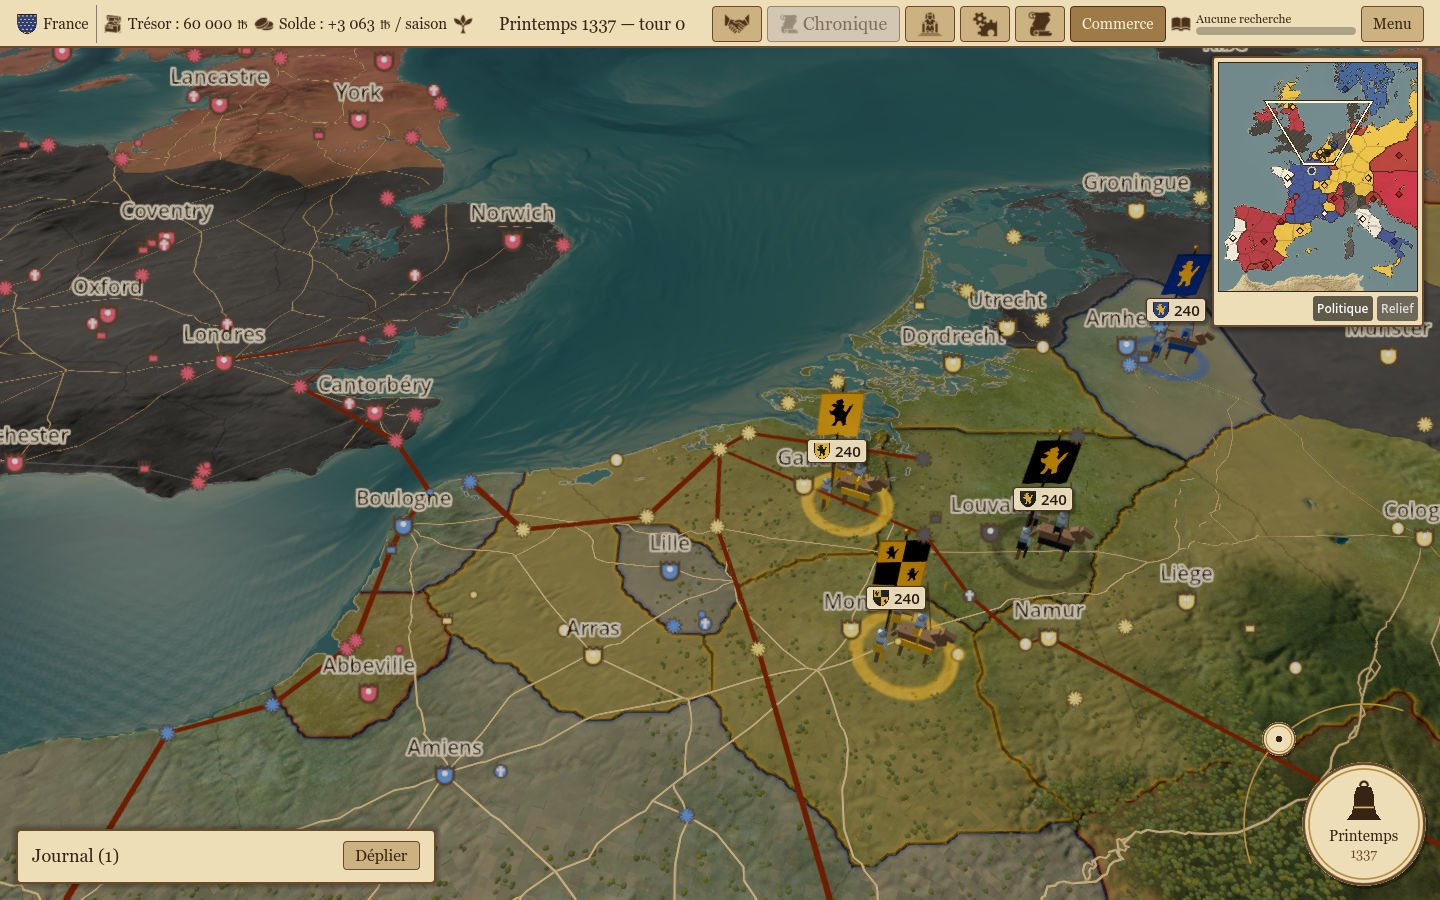
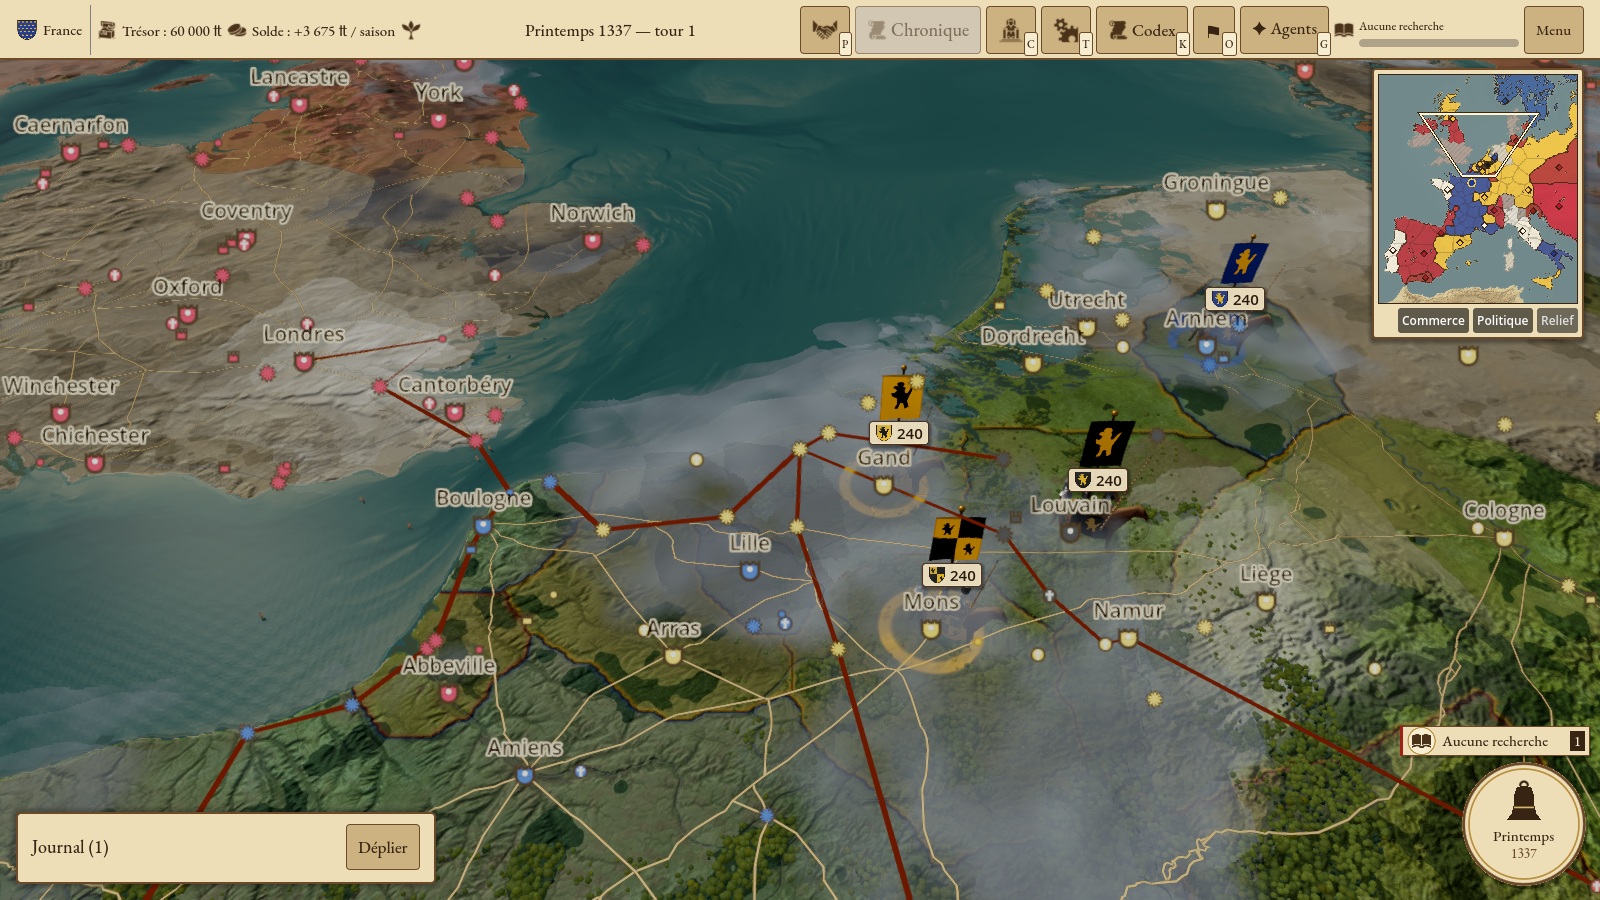
wip(c5r): probe figures, captures (trade layer, diplomacy trade line, edicts)

diff --git a/docs/wip/c5-commerce.md b/docs/wip/c5-commerce.md
@@ -49,7 +49,48 @@ dans `GameData::trade` (`core/crates/data-model/src/entities/trade.rs`,
   `FactionState::trade_agreements`, `plan_trade_agreements` et `trade_income_factor` supprimés.
   Test `c5_trade::trade_article_counts_common_routes_in_the_evaluation` + accord signé par
   `apply_treaty` dans les tests C5. Smoke : l'accord passe par `propose_treaty`.
-- `cargo test` : 580 verts.
+- `cargo test` : 580 verts ; clippy propre ; pytest 392 ; import OK ; smoke 26 « smoke OK »,
+  code 0.
+- Barre du haut : le bouton « Commerce » ne tenait plus en 1280 px (1496 px > 1422) ; il est
+  déplacé dans la rangée des modes de la minicarte (`CampaignMinimap.add_layer_button`), touche R
+  inchangée.
+- Diplomatie : ligne « Commerce — routes communes » sous la fiche de la faction (coupées : raison),
+  « Accord commercial (suspendu) » sous embargo, action « Rompre l'accord commercial ».
+- Captures regardées : `docs/img/c5-commerce/routes.png` (couche commerciale, Flandres),
+  `docs/img/c5-commerce/diplomacy.png` (écran DP1, routes Calais/La Rochelle ↔ Londres coupées par
+  la guerre), `docs/img/c4-edits/edicts.png` et `chains.png` (script `c4_screenshot.gd`).
+
+## Sondes (25/09, même machine, main 58733bb2 contre C5R)
+`balance_probe campaign 200 1-8` :
+
+| Mesure | main | C5R (C4 + C5 + unification) |
+|---|---|---|
+| Guerre FR-EN (part des tours) | 56 % | 60 % |
+| Milice / recrutements | 30,6 % | 32,0 % |
+| Archers longs / recr. anglais | 61,1 % | 60,1 % |
+| Mécontentement final | 11,1 | 9,2 |
+| Impôt « Haut » | 44 % | 48 % |
+| Révoltes / partie | 14,4 | 14,6 |
+| Changements de propriétaire | 19,0 | 23,0 |
+| Graines FR-EN (1-8) | 54/68/42/50/78/57/47/50 | 66/66/62/64/52/52/60/64 |
+
+`century_probe 464 1-5` :
+
+| Mesure | main | C5R |
+|---|---|---|
+| Guerre FR-EN moy. | 59 % [48-67], 3/5 dans 55-75 % | 57 % [53-61], 3/5 dans 55-75 % |
+| 4 majeures vivantes en 1400 | 5/5 | 5/5 |
+| Banqueroutes / fac. / déc. | 0,66 | 0,98 (graine 1 : 2,27) |
+| Trésors > 8 saisons | 0 | 0 |
+
+Pas de régression sur les cibles G1/DP1 : la guerre FR-EN est plus régulière (écart entre graines
+réduit), la milice reste sous 40 %. À surveiller : banqueroutes un peu plus fréquentes (graine 1),
+mécontentement final toujours sous la cible E2 (15-35), comme sur main. Temps : +8 % par partie
+(graine 3, 22,8 s → 24,6 s, parties différentes).
+
+## Prochaine étape
+Fusion dans main par l'orchestrateur (branche prête, main fusionné).
+
 
 ## Pistes
 - Icônes de marchandise et navires/charrettes animés sur les routes (seul le
@@ -67,6 +108,3 @@ dans `GameData::trade` (`core/crates/data-model/src/entities/trade.rs`,
 - (Remplacé le 25/09) Accord commercial = article de traité DP1, stocké une
   seule fois dans le registre DP1 ; la guerre l'efface, l'embargo le suspend.
 
-## Prochaine étape
-Sondes d'équilibre (balance_probe 8×200, century_probe 5×464) avant/après, puis build GDExtension,
-import, smoke, captures de la couche commerciale et du panneau d'édits.
